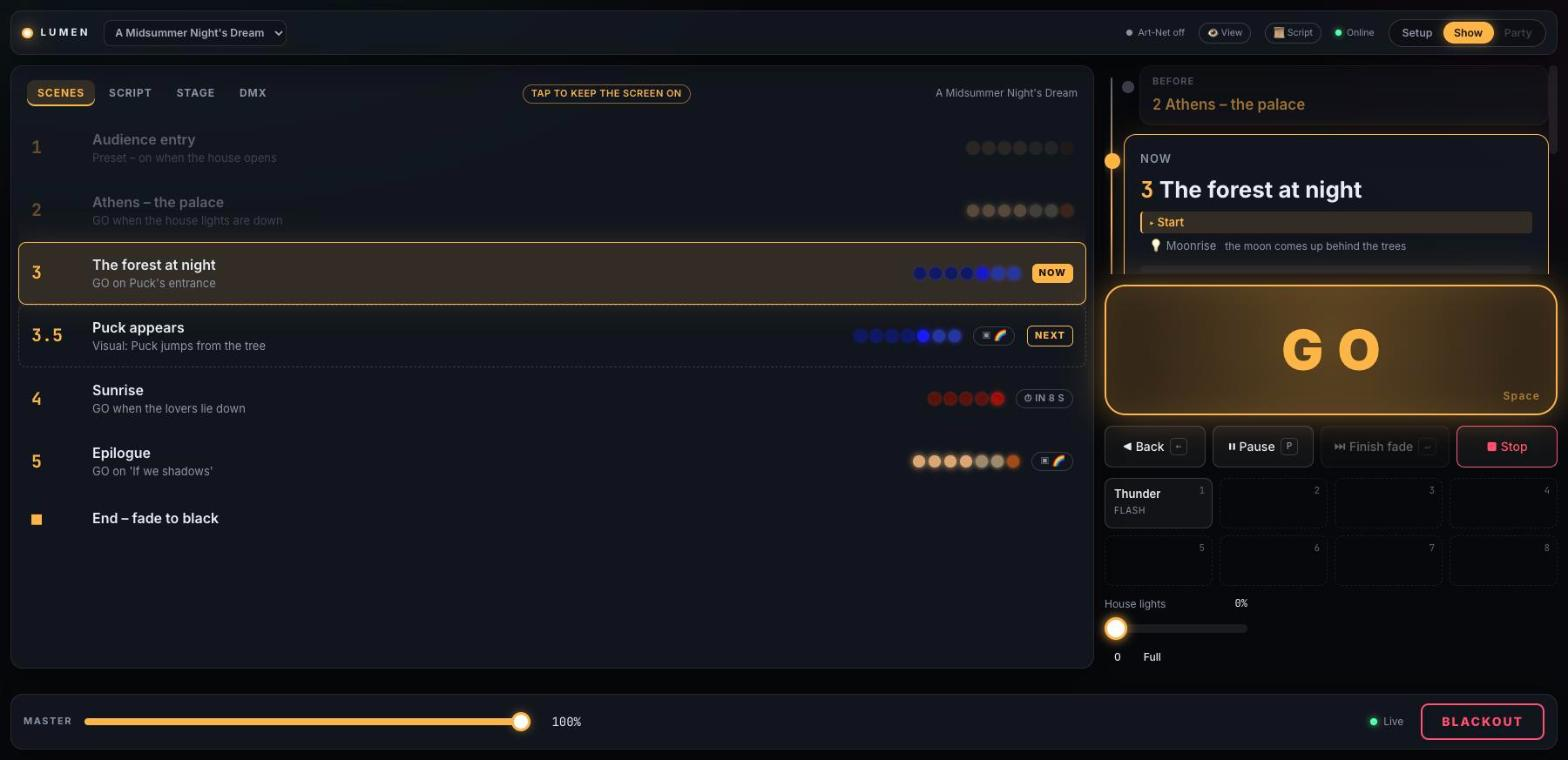
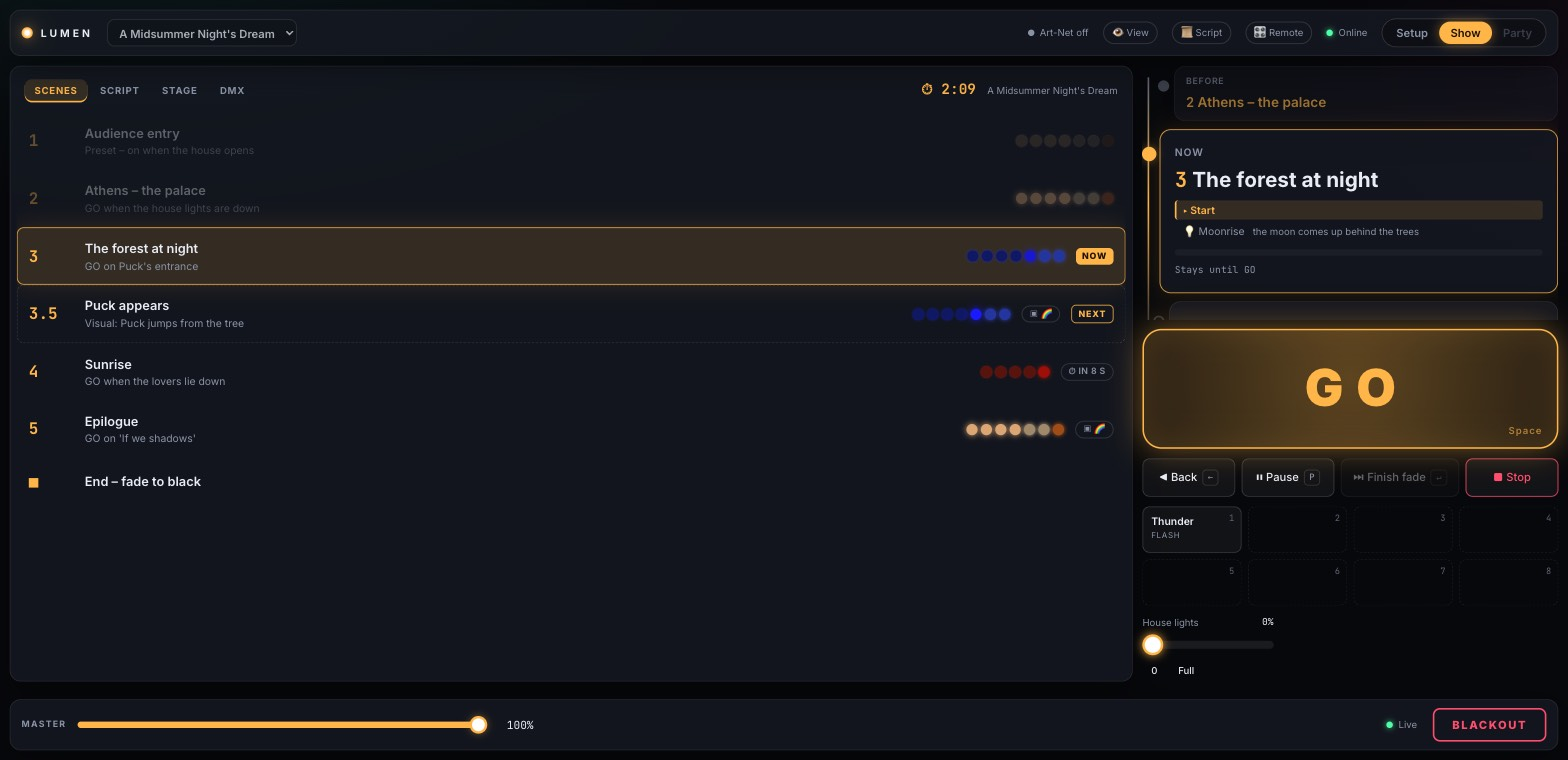
User guide: show remote for a tablet and show time

diff --git a/index.html b/index.html
@@ -800,7 +800,7 @@ cd lumen-ArtNet
       locked, every browser switches along, and – if a PIN is set – every browser is locked again.</p>
     <figure>
       <img src="images/show.jpg" width="1568" height="760" alt="Show mode: cue list on the left, now and next on the right, big GO button, keys and house lights fader" loading="lazy">
-      <figcaption>Show mode during scene 3: the stack on the right shows before, now (with its light markers) and next.</figcaption>
+      <figcaption>Show mode during scene 3: the stack on the right shows before, now (with its light markers) and next; ⏱ above the list is the show time.</figcaption>
     </figure>
     <ul>
       <li><strong>GO</strong> (<kbd>Space</kbd>) fades into the next scene: fade-out and fade-in run in parallel. A
@@ -814,6 +814,9 @@ cd lumen-ArtNet
       <li><strong>Keys</strong> (<kbd>1</kbd>–<kbd>8</kbd>) and <strong>faders</strong> sit below GO. Flash keys are on
         while held.</li>
       <li><strong>Master</strong> and <strong>Blackout</strong> (<kbd>B</kbd>) at the bottom work in every mode.</li>
+      <li><strong>⏱ Show time</strong> above the list: how long the show has been running since the GO into the first
+        scene, e.g. <code>1:02:05</code>. A pause does not stop it; at the end of the show it stands still (grey), and
+        <strong>Stop</strong> resets it. Every browser shows the same time.</li>
     </ul>
 
     <h3>Following the script</h3>
@@ -839,7 +842,33 @@ cd lumen-ArtNet
       tap – the hint "Tap to keep the screen on" disappears with your first touch.</p>
 
     <!-- ───────────────────────────────────────────── -->
-    <h2 id="view"><span class="num">14</span>Phones &amp; tablets: view only</h2>
+    <h2 id="view"><span class="num">14</span>Phones &amp; tablets</h2>
+
+    <h3 id="remote">Running the show from a tablet</h3>
+    <figure>
+      <img src="images/remote.jpg" width="1568" height="1089" alt="The show remote on an iPad in landscape: now and next, keys and house lights on the left, GO, playback buttons and the script with a big down button on the right" loading="lazy">
+      <figcaption><code>#/remote</code> on an iPad: the Fairy's speech at the top of the script, the light marker Moonrise below it.</figcaption>
+    </figure>
+    <p>The <strong>🎛 Remote</strong> (<code>http://&lt;computer&gt;:8080/#/remote</code>) is the show on a tablet, with
+      only what the performance needs – no scene list, stage or DMX:</p>
+    <ul>
+      <li><strong>Now</strong> with the fade bar, <strong>Next</strong> with its cue note – ▲/▼ choose another scene
+        as next.</li>
+      <li><strong>GO</strong>, <strong>Back</strong>, <strong>Pause</strong>, <strong>Finish fade</strong> and
+        <strong>Stop</strong> (asks once, like in show mode).</li>
+      <li>The <strong>script</strong> of the scene with all stage directions and light markers. The current speech
+        stands at the top, what comes next below it. The big <strong>▼</strong> goes to the next speech (and past a
+        light marker changes the light), ▲ goes back. The position is shared with the laptop and the script view.</li>
+      <li>The <strong>keys</strong> of the scene and the <strong>faders</strong> (e.g. house lights) on the left,
+        <strong>master</strong> and <strong>blackout</strong> at the bottom, the <strong>⏱ show time</strong> at the
+        top.</li>
+    </ul>
+    <p>Every part of the page has a fixed size: long names are cut and the script scrolls inside its box, so no button
+      ever moves under your finger. The remote works in show mode only – outside it says so and the buttons are
+      greyed out; it cannot start show mode itself. Like show mode it needs no PIN, and the screen stays on. In portrait
+      everything stands in one column. Tip: in Safari use <em>Share → Add to Home Screen</em> to open it like an app.</p>
+
+    <h3>View only</h3>
     <p>Two pages show what is happening without being able to change anything – no controls, no shortcuts, no PIN.
       They are meant for the prompter, stage management or the director.</p>
     <div class="pair">
@@ -948,7 +977,7 @@ cd lumen-ArtNet
     </ul>
 
     <h3>The tablet screen goes dark during the show</h3>
-    <p>Tap the screen once after opening show mode or the script view – the browser only keeps the screen on after a
+    <p>Tap the screen once after opening show mode, the remote or the script view – the browser only keeps the screen on after a
       touch when the page is served over plain HTTP.</p>
 
     <h3>macOS says Lumen cannot be opened</h3>
